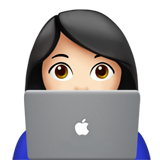
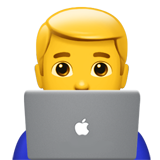
Add new sections
- add profile image
- slider section

diff --git a/src/components/card-overview.js b/src/components/card-overview.js
@@ -1,0 +1,122 @@
+// import Swiper core and required modules
+import { Navigation, Pagination, Scrollbar, A11y } from 'swiper';
+
+import { Swiper, SwiperSlide } from 'swiper/react';
+
+// Import Swiper styles
+import 'swiper/css';
+import 'swiper/css/navigation';
+import 'swiper/css/pagination';
+import 'swiper/css/scrollbar';
+
+
+export function CardOverview(props) {
+    return (
+        <section className="section card-overview" style={{display:"block"}}>
+            <h1>What are my focus topics?</h1>
+            <Swiper
+                // install Swiper modules
+                modules={[Navigation, Pagination, Scrollbar, A11y]}
+                spaceBetween={50}
+                slidesPerView={1}
+                navigation
+                pagination={{ clickable: true }}
+                breakpoints={{
+                    // when window width is >= 640px
+                    1280: {
+                        slidesPerView: 4,
+                    },
+                    768: {
+                        slidesPerView: 2,
+                    },
+                    550: {
+                        slidesPerView: 1,
+                    },
+                }}
+                style={{padding: 15}}
+            >
+                <SwiperSlide>
+                    <div className="cards swiper-slide">
+                        <div className="cards__card-content">
+                            <div>
+                                testname
+                            </div>
+                            <h2 className="">
+                            testname
+                            </h2>
+                            <p>sdfgsfgsfgsfgfsg</p>
+                        </div>
+                    </div>
+                </SwiperSlide>
+                <SwiperSlide>
+                    <div className="cards swiper-slide">
+                        <div className="cards__card-content">
+                            <div className="">
+                                testname
+                            </div>
+                            <h2 className="">
+                                testname
+                            </h2>
+                            <p>sdfgsfgsfgsfgfsg</p>
+                        </div>
+                    </div>
+                </SwiperSlide>
+                <SwiperSlide>
+                    <div className="cards swiper-slide">
+                        <div className="cards__card-content">
+                            <div className="">
+                                testname
+                            </div>
+                            <h2 className="">
+                                testname
+                            </h2>
+                            <p>sdfgsfgsfgsfgfsg</p>
+                        </div>
+                    </div>
+                </SwiperSlide>
+                <SwiperSlide>
+                    <div className="cards swiper-slide">
+                        <div className="cards__card-content">
+                            <div className="">
+                                testname
+                            </div>
+                            <h1 className="">
+                                testname
+                            </h1>
+                            <p>sdfgsfgsfgsfgfsg</p>
+                        </div>
+                    </div>
+                </SwiperSlide>
+                <SwiperSlide>
+                    <div className="cards swiper-slide">
+                        <div className="cards__card-content">
+                            <div className="">
+                                testname
+                            </div>
+                            <h2 className="">
+                                testname
+                            </h2>
+                            <p>sdfgsfgsfgsfgfsg</p>
+                        </div>
+                    </div>
+                </SwiperSlide>
+                <SwiperSlide>
+                    <div className="cards swiper-slide">
+                        <div className="cards__card-content">
+                            <div className="">
+                                testname
+                            </div>
+                            <h2 className="">
+                                testname
+                            </h2>
+                            <p>sdfgsfgsfgsfgfsg</p>
+                        </div>
+                    </div>
+                </SwiperSlide>
+            </Swiper>
+        </section>
+
+
+    )
+}
+

diff --git a/src/components/intro.js b/src/components/intro.js
@@ -1,18 +1,23 @@
-export const Intro = () => {
+export const Intro = (props) => {
     return (
         <header className="intro">
-            <h1 className="intro__hello">Hello!
-                <span className="emoji wave-hand animated"></span>
-            </h1>
             <div className="intro__twosection">
-                <h2 className="intro__tagline">I'm
-                    <span className="name"> Mertkan Henden</span>, a design-minded front-end software engineer focused on
-                    building beautiful interfaces &amp; experiences
-                    <span className="emoji technologist"></span>
-                </h2>
+                <div>
+                    <h1 className="intro__hello">Hello!
+                        <span className="emoji wave-hand animated"></span>
+                    </h1>
+                    <h2 className="intro__tagline">I'm
+                        <span className="name"> Mertkan Henden</span>, a design-minded front-end software engineer focused on
+                        building beautiful interfaces &amp; experiences
+                        <span className="emoji technologist"></span>
+                    </h2>
+                </div>
 
-                <h2 className="intro__tagline">I'm
-                    <span className="name"> Mertkan Henden</span>dkjdhfkgkdf
+
+                <h2 className="intro__tagline">
+                    <figure>
+                    <img src={props.image.img_url} alt="" />
+                    </figure>
                 </h2>
 
             </div>

diff --git a/src/App.js b/src/App.js
@@ -13,7 +13,8 @@ import LinkedIn from './img/social/linkedin.svg';
 import {TopBottom} from "./components/top-bottom";
 import React, {useEffect} from "react";
 import ScrollReveal from "scrollreveal";
-
+import business_img from './img/profile/business.png';
+import {CardOverview} from "./components/card-overview";
 
 function App() {
 
@@ -63,9 +64,11 @@ function App() {
 
       window.sr.reveal('.background');
       window.sr.reveal('.skills');
+      window.sr.reveal('.card-overview', { viewFactor: 0.1 });
       window.sr.reveal('.experience', { viewFactor: 0.2 });
       window.sr.reveal('.featured-projects', { viewFactor: 0.1 });
-      window.sr.reveal('.other-projects', { viewFactor: 0.05 });
+      window.sr.reveal('.other-projects', { viewFactor: 0.1 });
+
       }
   )
 
@@ -73,12 +76,14 @@ function App() {
     <div className="App">
       <div id="site">
         <Switch />
-        <Intro />
+        <Intro image={{img_url: business_img}}/>
         <Background />
         <Skills languages={["deutsch", "deutsch", "deutsch"]}
                 frameworks={["deutsch", "deutsch", "deutsch"]}
                 tools={["deutsch", "deutsch", "deutsch"]}
                 design={["deutsch", "deutsch", "deutsch"]} />
+
+        <CardOverview/>
 
         <Experience experience={[{
               company: "Apple Music",
@@ -129,6 +134,7 @@ function App() {
              }]}
 
          />
+
 
           <Footer links={[{
               title: "LinkedIn",

diff --git a/src/_scss/partials/_card-overview.scss b/src/_scss/partials/_card-overview.scss
@@ -1,0 +1,39 @@
+.card-overview {
+  .cards {
+    font-size: 1.25rem;
+    display: flex;
+    width: 100%;
+    height: 18.5em;
+    padding-top: 0.5em;
+    padding-bottom: 0.5em;
+    padding-right: 0.75em;
+    flex-grow: 0;
+    flex-shrink: 0;
+    scroll-snap-align: start;
+
+    &__card-content {
+      border-radius: 18px;
+      background: #ffffff;
+      width: 100%;
+      height: 100%;
+      box-shadow: rgba(0, 0, 0, 0.1) 0px 4px 12px;
+      word-wrap: break-word;
+      padding: 15px 15px 0 15px;
+      &:hover {
+        box-shadow: rgba(0, 0, 0, 0.1) 0px 4px 30px;
+        transform: scale(1.03);
+      }
+
+      p {
+        font-size: 0.9rem;
+        margin-bottom: 20px;
+      }
+
+    }
+  }
+}
+
+
+
+
+

diff --git a/src/_scss/partials/_intro.scss b/src/_scss/partials/_intro.scss
@@ -22,18 +22,17 @@
     grid-gap: 50px;
     grid-auto-rows: minmax(100px, auto);
     display: grid;
-
     @include phablet {
       grid-template-columns: repeat(1,1fr);
-      grid-gap: 0px;
+      grid-gap: 0;
     }
     @include small-mobile {
       grid-template-columns: repeat(1,1fr);
-      grid-gap: 0px;
+      grid-gap: 0;
     }
     @include tiny-mobile {
       grid-template-columns: repeat(1,1fr);
-      grid-gap: 0px;
+      grid-gap: 0;
     }
 
   }
@@ -152,7 +151,6 @@
       text-decoration: none;
       display: inline-block;
       padding: 2px 3px;
-      text-decoration: none;
       box-shadow: inset 0 -3px 0 $blue;
       &:hover {
         box-shadow: inset 0 -33px 0 0 $blue;

diff --git a/src/_scss/partials/_base.scss b/src/_scss/partials/_base.scss
@@ -53,6 +53,12 @@ body {
     .section__content .underline-link:after {
       background: $off-white;
     }
+    .cards__card-content{
+      background: $off-white;
+      h1, h2, p, span, div {
+        color: $night;
+      };
+    }
   }
 }
 
@@ -97,6 +103,13 @@ strong {
   display: flex;
   justify-content: center;
   padding: 100px 170px;
+  margin-top: 12px;
+  margin-bottom: 12px;
+
+  h1{
+    color: $blue;
+  }
+
   @include thirteen {
     padding: 100px;
   }

diff --git a/src/_scss/main.scss b/src/_scss/main.scss
@@ -8,5 +8,6 @@
 @import 'src/_scss/partials/employment-status';
 @import 'src/_scss/partials/featured-projects';
 @import 'src/_scss/partials/other-projects';
+@import 'src/_scss/partials/card-overview';
 @import 'src/_scss/partials/footer';
 @import 'src/_scss/partials/404';

diff --git a/src/components/skills.js b/src/components/skills.js
@@ -1,5 +1,4 @@
 export function Skills(props) {
-
     return (
         <section className="section skills">
             <div className="section__title">Skills</div>
